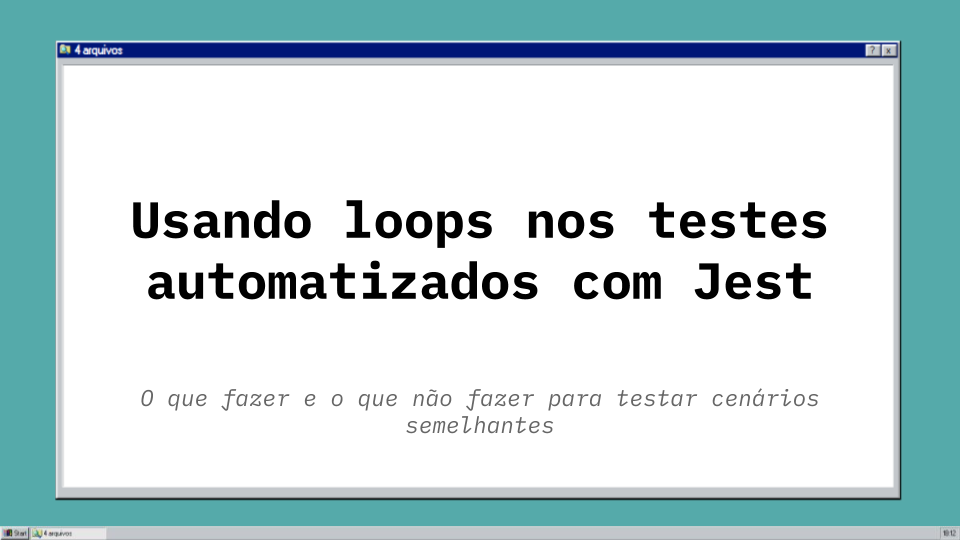
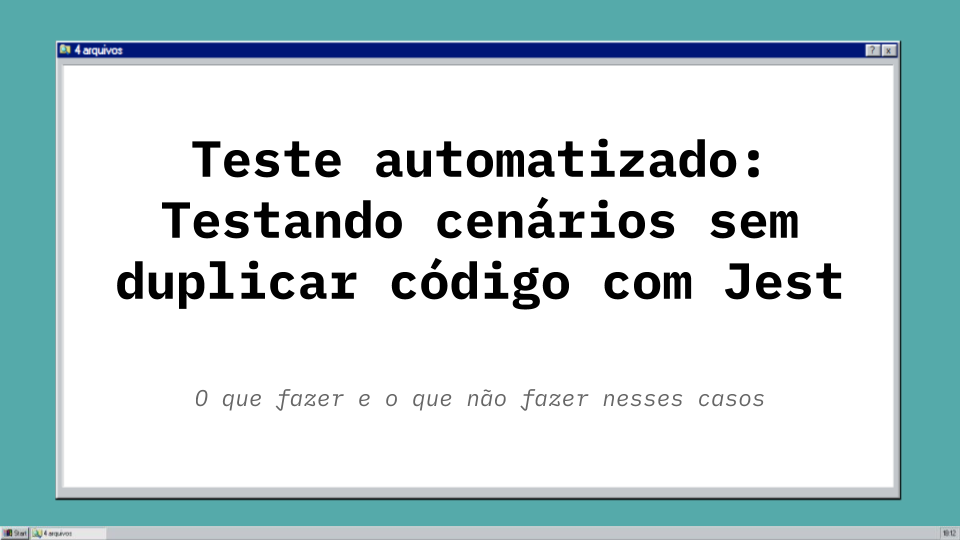
Update Posts “2021-01-15-usando-loops-nos-testes-automatizados-com-jest”

diff --git a/posts/2021-01-15-usando-loops-nos-testes-automatizados-com-jest.md b/posts/2021-01-15-usando-loops-nos-testes-automatizados-com-jest.md
@@ -1,7 +1,8 @@
 ---
-title: Usando loops nos testes automatizados com Jest
-description: Nesse post quero mostrar como podemos testar cenários semelhantes
-  sem duplicar código usando o .each do Jest.
+title: "Teste automatizado: Testando cenários sem duplicar código com Jest"
+description: Nesse post quero mostrar como podemos evitar a duplicação de código
+  e manter o código legível usando a função .each do Jest para testar cenários
+  semelhantes.
 date: 2021-01-14 07:54:19
 image: /assets/img/tests-loops-jest.png
 category: frontend
